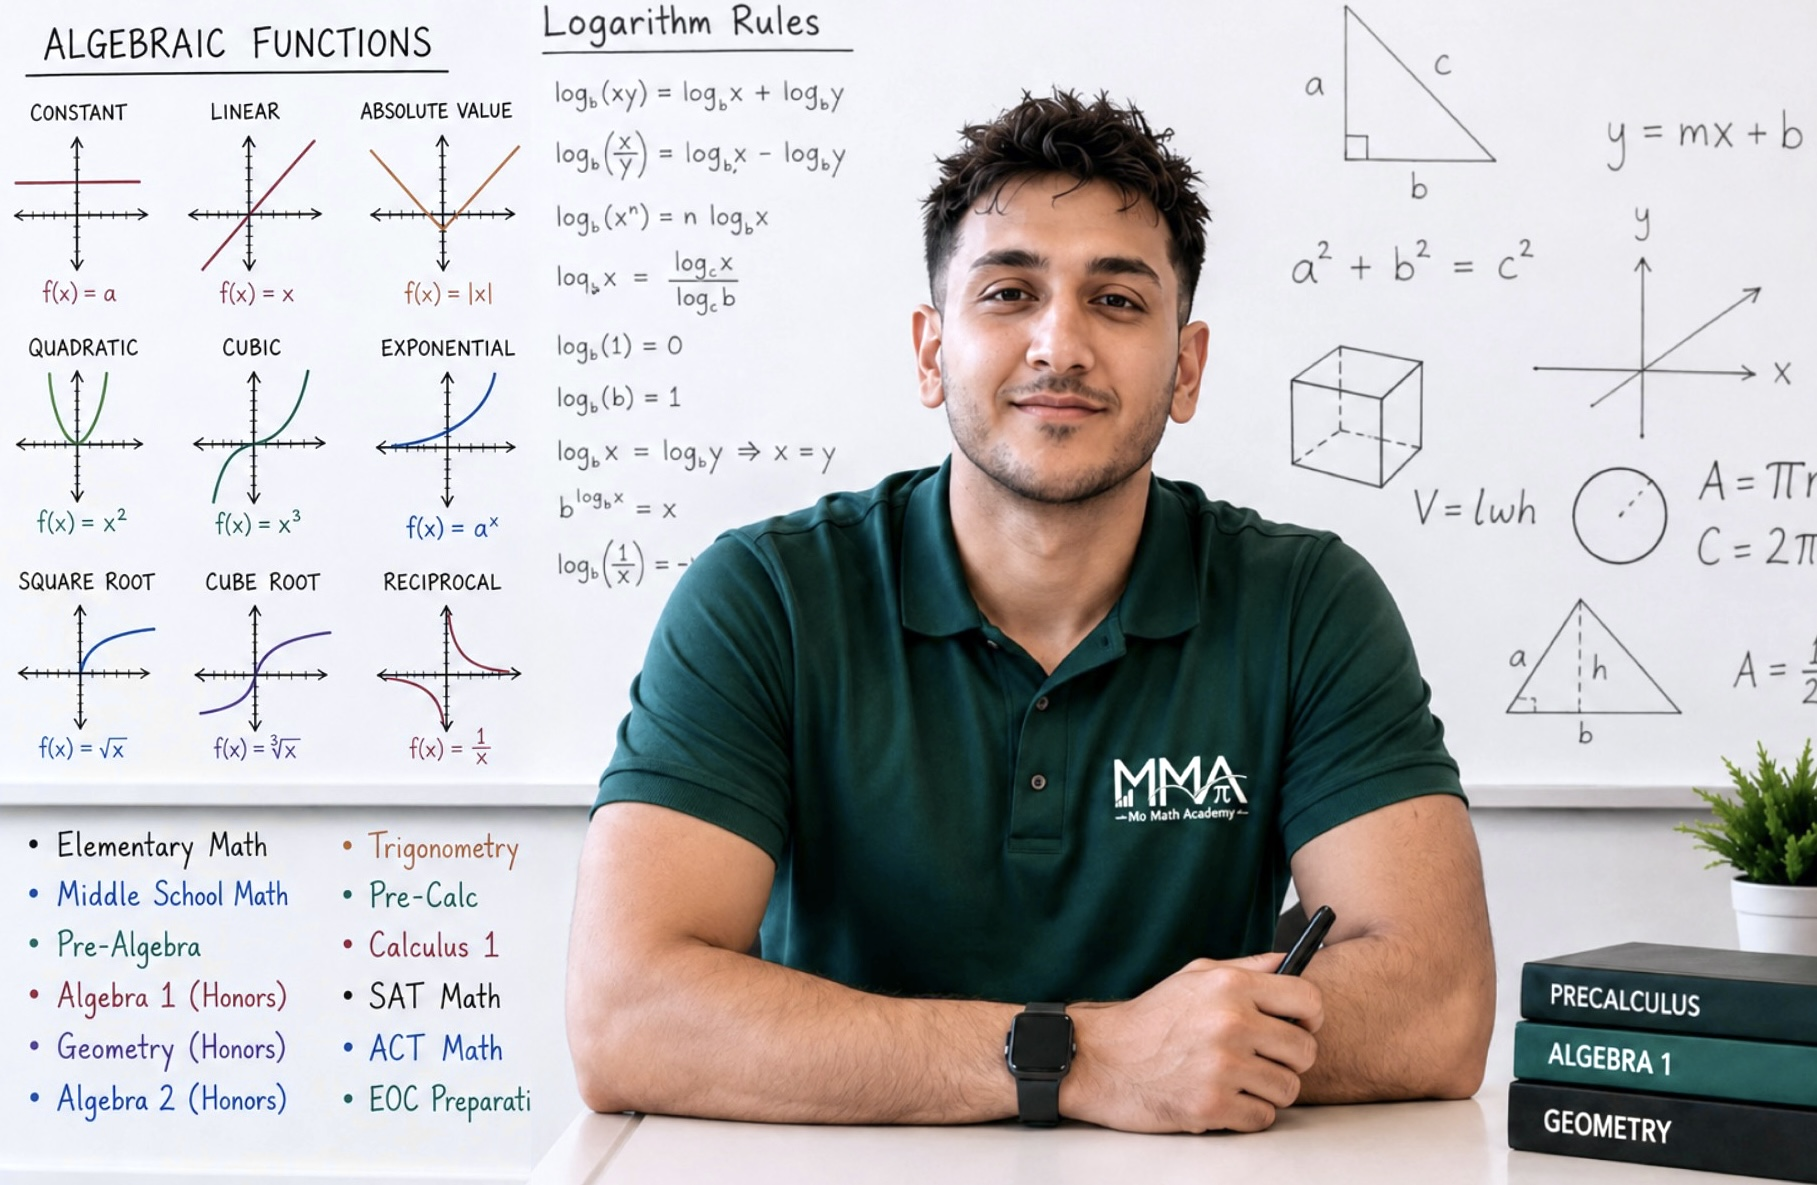
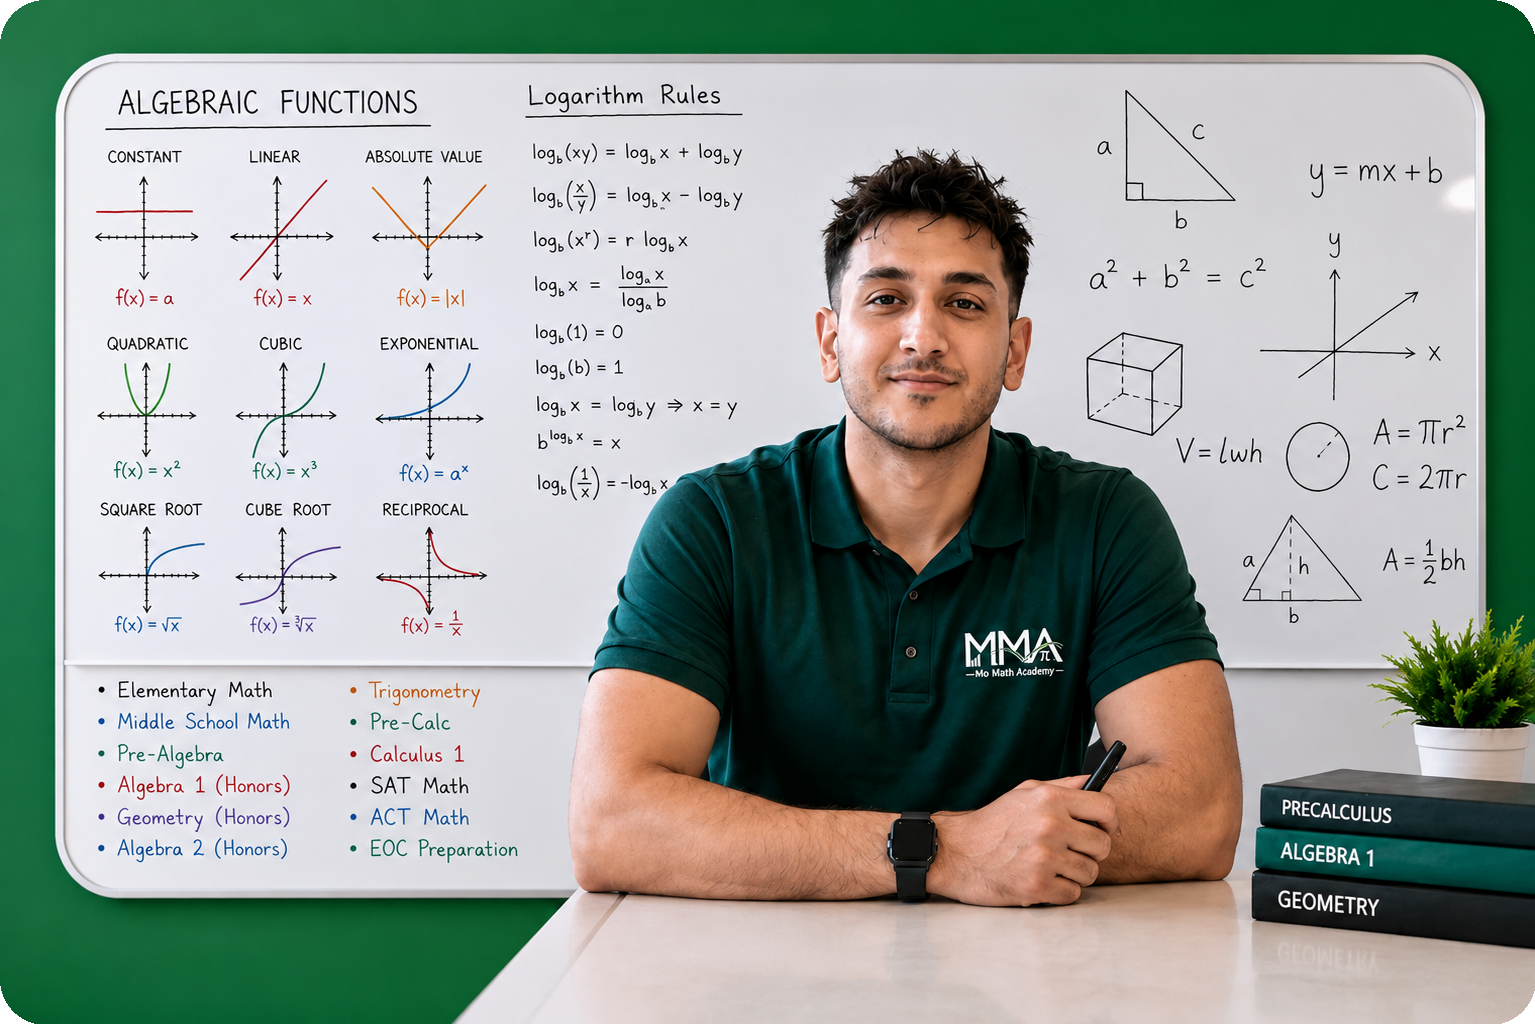
hpf

diff --git a/mo-math-academy/src/app/components/Hero.tsx b/mo-math-academy/src/app/components/Hero.tsx
@@ -12,31 +12,30 @@ export default function Hero() {
             Personalized Math Tutoring
           </p>
 
-          <h1 className="text-[52px] font-black leading-[0.96] tracking-[-1.5px] text-gray-900 xl:text-[60px]">
+          <h1 className="text-[46px] font-black leading-[1.02] tracking-[-1.2px] text-gray-900 xl:text-[54px]">
             Building
             <br />
-            <span className="text-green-700">Confidence</span> in Math!
+            <span className="text-green-700">Confidence</span> in Math,
             <br />
-
             One Student
             <br />
-            at a Time!
+            at a Time.
           </h1>
 
-          <p className="mt-7 max-w-[520px] text-base leading-7 text-gray-600">
+          <p className="mt-6 max-w-[520px] text-[18px] leading-8 text-gray-600">
             Professional tutoring for Elementary Math, Middle School Math,
             Algebra I (Honors), Geometry (Honors), Algebra II (Honors),
             Trigonometry, Pre-Calculus, Calculus I, SAT, ACT,
             Placement Tests, and EOC preparation.
           </p>
 
-          <div className="mt-10 flex flex-wrap gap-4">
+          <div className="mt-9 flex flex-wrap gap-4">
 
-            <button className="rounded-full bg-green-700 px-7 py-3 text-base font-semibold text-white transition hover:-translate-y-1 hover:bg-green-800">
+            <button className="rounded-full bg-green-700 px-6 py-3 text-[15px] font-semibold text-white transition duration-300 hover:-translate-y-1 hover:bg-green-800">
               Schedule a Session
             </button>
 
-            <button className="rounded-full border-2 border-green-700 px-7 py-3 text-base font-semibold text-green-700 transition hover:bg-green-50">
+            <button className="rounded-full border-2 border-green-700 px-6 py-3 text-[15px] font-semibold text-green-700 transition duration-300 hover:bg-green-50">
               Learn More
             </button>
 
@@ -54,7 +53,7 @@ export default function Hero() {
               -right-56
               top-1/2
               h-[900px]
-              w-[1000px]
+              w-[950px]
               -translate-y-1/2
               rounded-l-[900px]
               bg-[#0F8A42]
@@ -67,11 +66,12 @@ export default function Hero() {
             alt="Mo Math Academy"
             fill
             priority
+            sizes="(max-width:1024px) 100vw, 52vw"
             className="
               object-contain
               object-right
-              scale-[1.08]
-              translate-x-20
+              scale-[1.06]
+              translate-x-16
             "
           />
 
